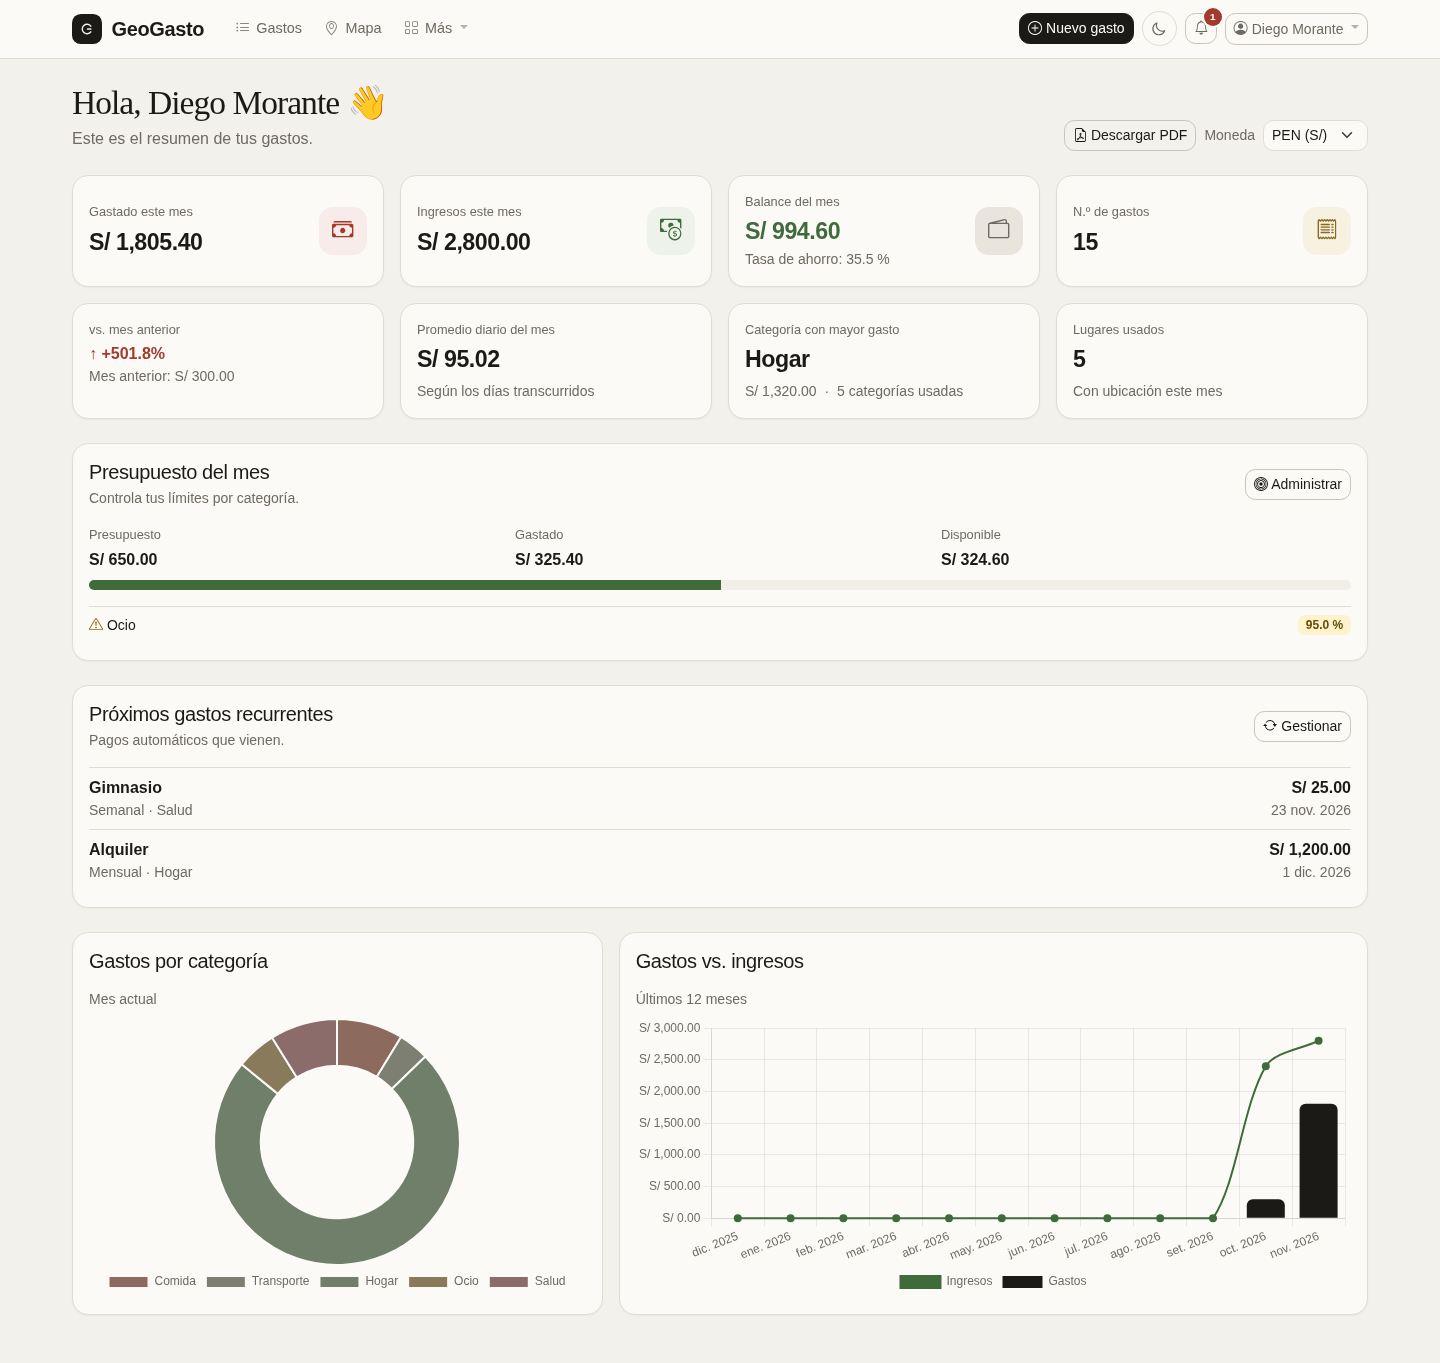
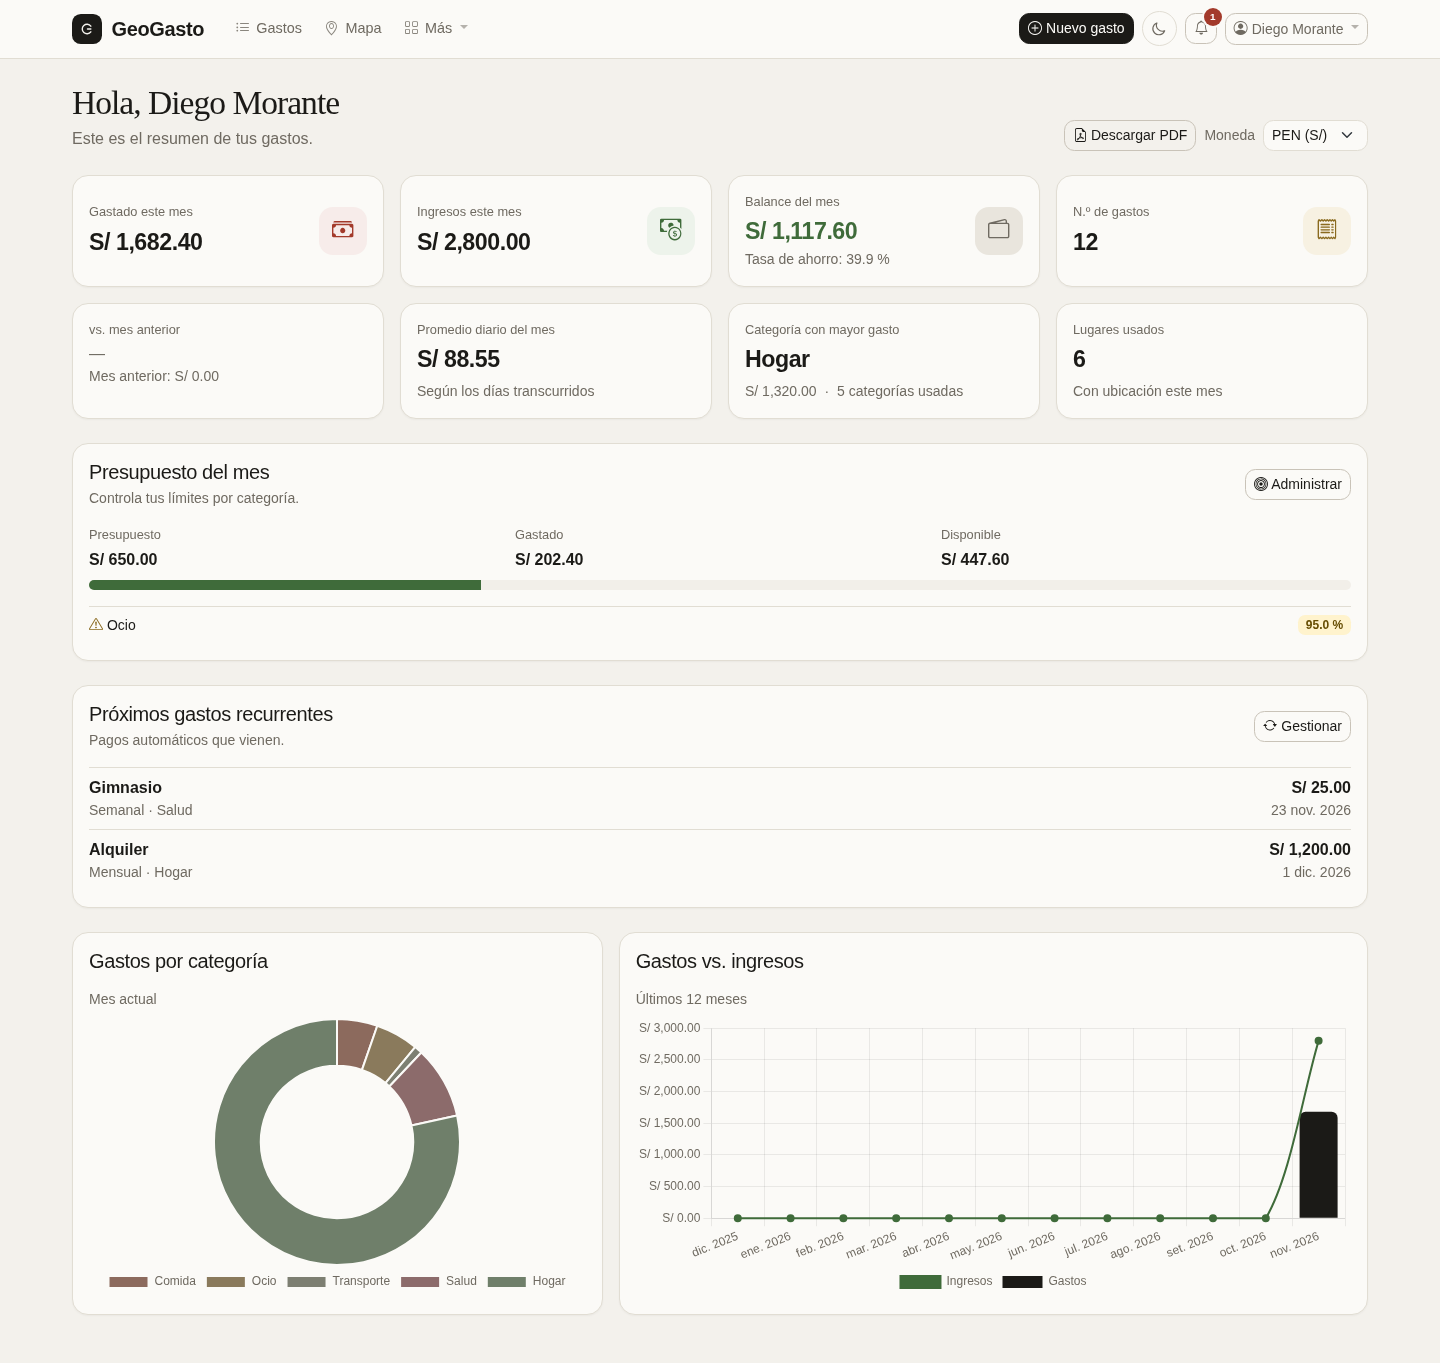
style: quitar emoji del saludo del dashboard
- Elimina la manito del título de bienvenida
- Actualiza las capturas de dashboard de escritorio y móvil

diff --git a/src/main/resources/static/index.html b/src/main/resources/static/index.html
@@ -20,7 +20,7 @@
 
     <div class="d-flex flex-wrap justify-content-between align-items-end gap-3 mb-4">
         <div>
-            <h2 class="page-title mb-1">Hola, <span id="userName">usuario</span> 👋</h2>
+            <h2 class="page-title mb-1">Hola, <span id="userName">usuario</span></h2>
             <p class="text-muted mb-0">Este es el resumen de tus gastos.</p>
         </div>
         <div class="d-flex flex-wrap align-items-center gap-2">
